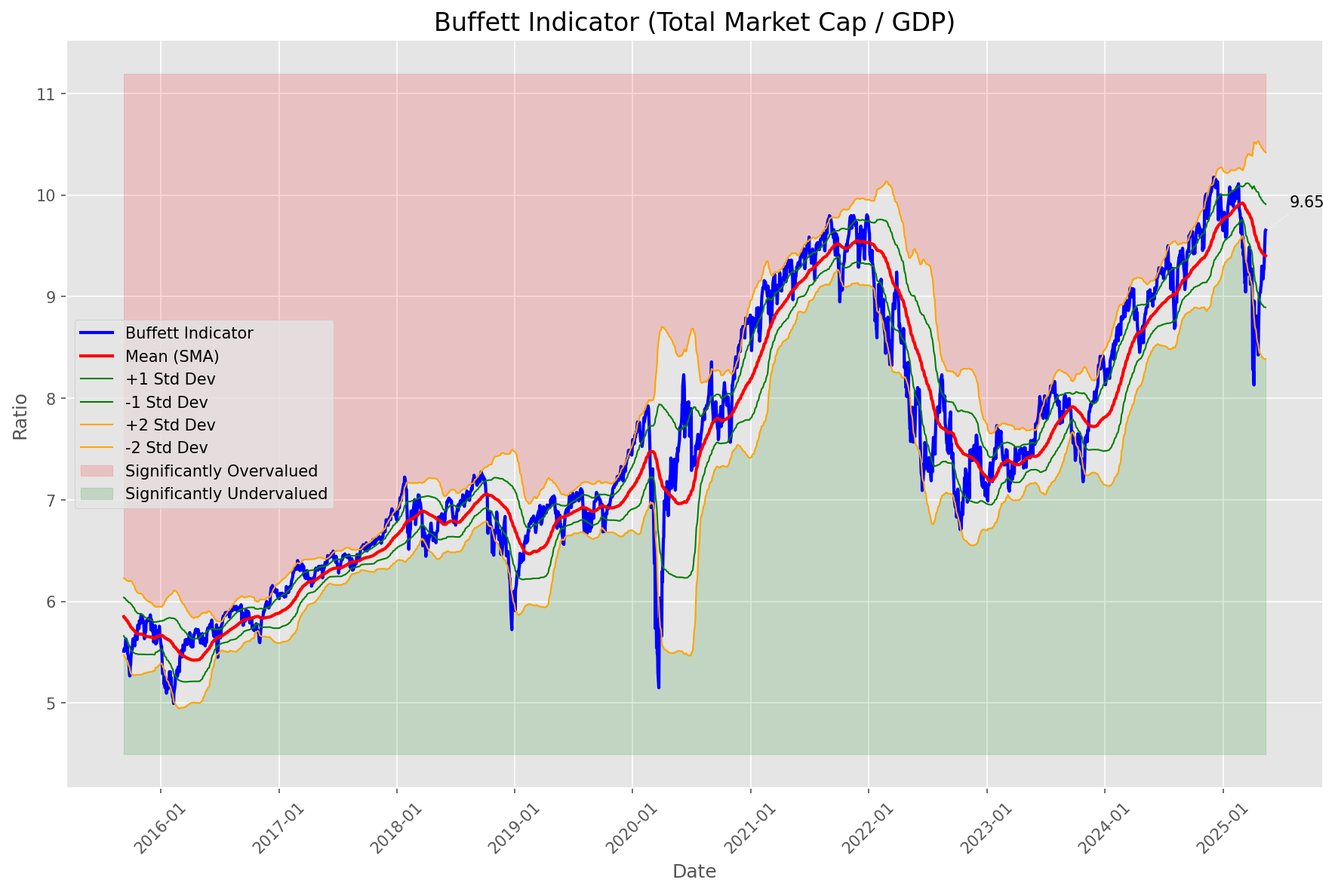
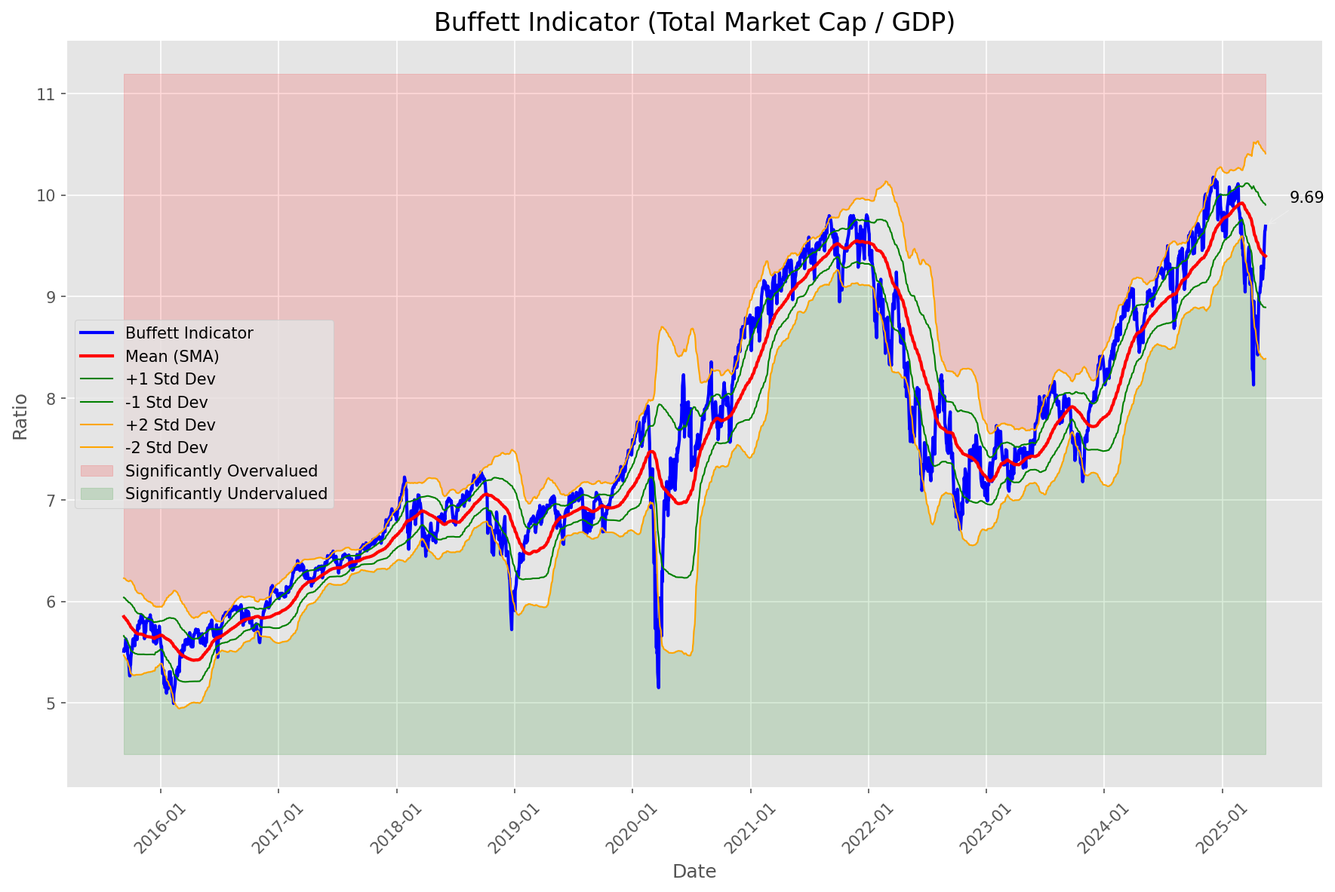
Add market report for 2025-05-16

diff --git a/oneil_relative_strength_report_2025-05-16.md b/oneil_relative_strength_report_2025-05-16.md
@@ -9,11 +9,11 @@
 | Metric | Value |
 |--------|-------|
 | **Market Valuation** | **Fair Valued** |
-| **Current Ratio** | 9.69 |
+| **Current Ratio** | 9.71 |
 | **Historical Mean** | 9.40 |
-| **Standard Deviation** | 0.51 |
-| **Z-Score (StdDev from Mean)** | 0.50 |
-| **Total Market Cap** | $290.59 trillion |
+| **Standard Deviation** | 0.50 |
+| **Z-Score (StdDev from Mean)** | 0.58 |
+| **Total Market Cap** | $291.10 trillion |
 | **GDP** | $29.98 trillion |
 
 ## **Market Insights**
@@ -49,41 +49,41 @@ Based on William O'Neil's Relative Strength Methodology
 
 | ETF | Strength | RS Rating | Performance | Above Key MAs | Trend | Sector |
 |-----|----------|-----------|-------------|--------------|-------|--------|
-| [XLI](https://www.tradingview.com/chart/?symbol=XLI) | 88.0 | 76.0 | 3.10% | 10d ✓, 50d ✓, 200d ✓ | ↗ | Industrial |
-| [XLU](https://www.tradingview.com/chart/?symbol=XLU) | 86.5 | 73.0 | 1.96% | 10d ✓, 50d ✓, 200d ✓ | ↗ | Utilities |
-| [GLD](https://www.tradingview.com/chart/?symbol=GLD) | 85.1 | 90.0 | 10.18% | 10d ✗, 50d ✓, 200d ✓ | ↗ | Gold |
-| [IYZ](https://www.tradingview.com/chart/?symbol=IYZ) | 84.5 | 69.0 | 0.64% | 10d ✓, 50d ✓, 200d ✓ | ↗ | Telecommunications |
+| [XLI](https://www.tradingview.com/chart/?symbol=XLI) | 88.5 | 77.0 | 3.48% | 10d ✓, 50d ✓, 200d ✓ | ↗ | Industrial |
+| [XLU](https://www.tradingview.com/chart/?symbol=XLU) | 87.0 | 74.0 | 2.49% | 10d ✓, 50d ✓, 200d ✓ | ↗ | Utilities |
+| [GLD](https://www.tradingview.com/chart/?symbol=GLD) | 85.1 | 90.0 | 10.22% | 10d ✗, 50d ✓, 200d ✓ | ↗ | Gold |
+| [XLP](https://www.tradingview.com/chart/?symbol=XLP) | 85.0 | 70.0 | 0.99% | 10d ✓, 50d ✓, 200d ✓ | ↗ | Consumer Staples |
+| [IYZ](https://www.tradingview.com/chart/?symbol=IYZ) | 84.0 | 68.0 | 0.64% | 10d ✓, 50d ✓, 200d ✓ | ↗ | Telecommunications |
 | [PAVE](https://www.tradingview.com/chart/?symbol=PAVE) | 83.5 | 67.0 | 0.24% | 10d ✓, 50d ✓, 200d ✓ | ↗ | Infrastructure |
-| [KWEB](https://www.tradingview.com/chart/?symbol=KWEB) | 82.0 | 64.0 | -0.15% | 10d ✓, 50d ✓, 200d ✓ | ↗ | Chinese Internet |
-| [XLP](https://www.tradingview.com/chart/?symbol=XLP) | 81.5 | 63.0 | -0.34% | 10d ✓, 50d ✓, 200d ✓ | ↗ | Consumer Staples |
-| [XLF](https://www.tradingview.com/chart/?symbol=XLF) | 80.5 | 61.0 | -0.81% | 10d ✓, 50d ✓, 200d ✓ | ↗ | Financial |
-| [CIBR](https://www.tradingview.com/chart/?symbol=CIBR) | 80.0 | 60.0 | -0.91% | 10d ✓, 50d ✓, 200d ✓ | ↗ | Cybersecurity |
+| [CIBR](https://www.tradingview.com/chart/?symbol=CIBR) | 81.0 | 62.0 | -0.43% | 10d ✓, 50d ✓, 200d ✓ | ↗ | Cybersecurity |
+| [XLF](https://www.tradingview.com/chart/?symbol=XLF) | 80.0 | 60.0 | -0.98% | 10d ✓, 50d ✓, 200d ✓ | ↗ | Financial |
 | [DBA](https://www.tradingview.com/chart/?symbol=DBA) | 78.0 | 56.0 | -2.04% | 10d ✓, 50d ✓, 200d ✓ | ↗ | Agriculture |
-| [ICLN](https://www.tradingview.com/chart/?symbol=ICLN) | 77.5 | 95.0 | 15.86% | 10d ✓, 50d ✓, 200d ✓ | ↘ | Clean Energy |
-| [ARKW](https://www.tradingview.com/chart/?symbol=ARKW) | 76.5 | 53.0 | -2.84% | 10d ✓, 50d ✓, 200d ✓ | ↗ | Next Generation Internet |
-| [BLOK](https://www.tradingview.com/chart/?symbol=BLOK) | 75.5 | 51.0 | -3.29% | 10d ✓, 50d ✓, 200d ✓ | ↗ | Blockchain & Cryptocurrency |
+| [ICLN](https://www.tradingview.com/chart/?symbol=ICLN) | 77.0 | 94.0 | 14.91% | 10d ✓, 50d ✓, 200d ✓ | ↘ | Clean Energy |
+| [ARKW](https://www.tradingview.com/chart/?symbol=ARKW) | 76.0 | 52.0 | -2.84% | 10d ✓, 50d ✓, 200d ✓ | ↗ | Next Generation Internet |
 | [AIQ](https://www.tradingview.com/chart/?symbol=AIQ) | 75.5 | 51.0 | -3.23% | 10d ✓, 50d ✓, 200d ✓ | ↗ | Artificial Intelligence & Technology |
-| [XLC](https://www.tradingview.com/chart/?symbol=XLC) | 75.0 | 50.0 | -3.42% | 10d ✓, 50d ✓, 200d ✓ | ↗ | Communications |
-| [SLV](https://www.tradingview.com/chart/?symbol=SLV) | 74.1 | 68.0 | 0.51% | 10d ✓, 50d ✗, 200d ✓ | ↗ | Silver |
-| [XLY](https://www.tradingview.com/chart/?symbol=XLY) | 71.5 | 43.0 | -5.05% | 10d ✓, 50d ✓, 200d ✓ | ↗ | Consumer Discretionary |
+| [KWEB](https://www.tradingview.com/chart/?symbol=KWEB) | 75.5 | 51.0 | -3.20% | 10d ✓, 50d ✓, 200d ✓ | ↗ | Chinese Internet |
+| [BLOK](https://www.tradingview.com/chart/?symbol=BLOK) | 75.0 | 50.0 | -3.29% | 10d ✓, 50d ✓, 200d ✓ | ↗ | Blockchain & Cryptocurrency |
+| [XLC](https://www.tradingview.com/chart/?symbol=XLC) | 74.5 | 49.0 | -3.64% | 10d ✓, 50d ✓, 200d ✓ | ↗ | Communications |
+| [XLY](https://www.tradingview.com/chart/?symbol=XLY) | 72.0 | 44.0 | -4.80% | 10d ✓, 50d ✓, 200d ✓ | ↗ | Consumer Discretionary |
+| [IYR](https://www.tradingview.com/chart/?symbol=IYR) | 68.8 | 58.0 | -1.54% | 10d ✓, 50d ✓, 200d ✗ | ↗ | Real Estate |
 | [ARKF](https://www.tradingview.com/chart/?symbol=ARKF) | 68.5 | 37.0 | -7.13% | 10d ✓, 50d ✓, 200d ✓ | ↗ | Fintech Innovation |
-| [IYR](https://www.tradingview.com/chart/?symbol=IYR) | 67.8 | 56.0 | -2.12% | 10d ✓, 50d ✓, 200d ✗ | ↗ | Real Estate |
-| [JETS](https://www.tradingview.com/chart/?symbol=JETS) | 62.5 | 25.0 | -11.66% | 10d ✓, 50d ✓, 200d ✓ | ↗ | Airlines |
-| [ARKK](https://www.tradingview.com/chart/?symbol=ARKK) | 61.5 | 23.0 | -12.43% | 10d ✓, 50d ✓, 200d ✓ | ↗ | Innovation |
-| [XLK](https://www.tradingview.com/chart/?symbol=XLK) | 58.0 | 56.0 | -1.97% | 10d ✓, 50d ✓, 200d ✓ | ↘ | Technology |
-| [URA](https://www.tradingview.com/chart/?symbol=URA) | 55.5 | 51.0 | -3.28% | 10d ✓, 50d ✓, 200d ✓ | ↘ | Uranium |
-| [SOXX](https://www.tradingview.com/chart/?symbol=SOXX) | 53.0 | 46.0 | -4.23% | 10d ✓, 50d ✓, 200d ✓ | ↘ | Semiconductors |
+| [URA](https://www.tradingview.com/chart/?symbol=URA) | 63.5 | 67.0 | 0.29% | 10d ✓, 50d ✓, 200d ✓ | ↘ | Uranium |
+| [BIL](https://www.tradingview.com/chart/?symbol=BIL) | 63.0 | 66.0 | 0.02% | 10d ✓, 50d ✓, 200d ✓ | ↘ | Short-term Treasuries |
+| [SLV](https://www.tradingview.com/chart/?symbol=SLV) | 62.7 | 65.0 | -0.03% | 10d ✗, 50d ✗, 200d ✓ | ↗ | Silver |
+| [JETS](https://www.tradingview.com/chart/?symbol=JETS) | 61.0 | 22.0 | -12.48% | 10d ✓, 50d ✓, 200d ✓ | ↗ | Airlines |
+| [ARKK](https://www.tradingview.com/chart/?symbol=ARKK) | 60.0 | 20.0 | -13.91% | 10d ✓, 50d ✓, 200d ✓ | ↗ | Innovation |
+| [XLK](https://www.tradingview.com/chart/?symbol=XLK) | 57.5 | 55.0 | -2.37% | 10d ✓, 50d ✓, 200d ✓ | ↘ | Technology |
 | [IYT](https://www.tradingview.com/chart/?symbol=IYT) | 49.5 | 39.0 | -6.30% | 10d ✓, 50d ✓, 200d ✓ | ↘ | Transportation |
-| [BIL](https://www.tradingview.com/chart/?symbol=BIL) | 42.4 | 65.0 | 0.01% | 10d ✓, 50d ✗, 200d ✗ | ↘ | Short-term Treasuries |
-| [XLE](https://www.tradingview.com/chart/?symbol=XLE) | 42.3 | 45.0 | -4.57% | 10d ✓, 50d ✓, 200d ✗ | ↘ | Energy |
-| [XLB](https://www.tradingview.com/chart/?symbol=XLB) | 42.3 | 45.0 | -4.43% | 10d ✓, 50d ✓, 200d ✗ | ↘ | Materials |
-| [ITB](https://www.tradingview.com/chart/?symbol=ITB) | 36.3 | 33.0 | -8.63% | 10d ✓, 50d ✓, 200d ✗ | ↘ | Home Construction |
-| [UUP](https://www.tradingview.com/chart/?symbol=UUP) | 31.9 | 44.0 | -4.79% | 10d ✓, 50d ✗, 200d ✗ | ↘ | U.S. Dollar |
+| [XLB](https://www.tradingview.com/chart/?symbol=XLB) | 42.8 | 46.0 | -4.21% | 10d ✓, 50d ✓, 200d ✗ | ↘ | Materials |
+| [SOXX](https://www.tradingview.com/chart/?symbol=SOXX) | 42.3 | 45.0 | -4.72% | 10d ✓, 50d ✓, 200d ✗ | ↘ | Semiconductors |
+| [ITB](https://www.tradingview.com/chart/?symbol=ITB) | 35.8 | 32.0 | -8.76% | 10d ✓, 50d ✓, 200d ✗ | ↘ | Home Construction |
+| [UUP](https://www.tradingview.com/chart/?symbol=UUP) | 32.4 | 45.0 | -4.46% | 10d ✓, 50d ✗, 200d ✗ | ↘ | U.S. Dollar |
 | [DBC](https://www.tradingview.com/chart/?symbol=DBC) | 31.4 | 43.0 | -5.17% | 10d ✓, 50d ✗, 200d ✗ | ↘ | Commodities |
-| [TLT](https://www.tradingview.com/chart/?symbol=TLT) | 26.0 | 52.0 | -2.94% | 10d ✗, 50d ✗, 200d ✗ | ↘ | Long-term Treasuries |
-| [XLV](https://www.tradingview.com/chart/?symbol=XLV) | 13.5 | 27.0 | -10.88% | 10d ✗, 50d ✗, 200d ✗ | ↘ | Healthcare |
-| [IBB](https://www.tradingview.com/chart/?symbol=IBB) | 10.5 | 21.0 | -12.99% | 10d ✗, 50d ✗, 200d ✗ | ↘ | Biotechnology |
-| [ARKG](https://www.tradingview.com/chart/?symbol=ARKG) | 4.5 | 9.0 | -23.32% | 10d ✗, 50d ✗, 200d ✗ | ↘ | Genomics |
+| [XLE](https://www.tradingview.com/chart/?symbol=XLE) | 30.4 | 41.0 | -5.72% | 10d ✓, 50d ✗, 200d ✗ | ↘ | Energy |
+| [TLT](https://www.tradingview.com/chart/?symbol=TLT) | 26.5 | 53.0 | -2.78% | 10d ✗, 50d ✗, 200d ✗ | ↘ | Long-term Treasuries |
+| [XLV](https://www.tradingview.com/chart/?symbol=XLV) | 15.5 | 31.0 | -9.33% | 10d ✗, 50d ✗, 200d ✗ | ↘ | Healthcare |
+| [ARKG](https://www.tradingview.com/chart/?symbol=ARKG) | 12.9 | 6.0 | -27.36% | 10d ✓, 50d ✗, 200d ✗ | ↘ | Genomics |
+| [IBB](https://www.tradingview.com/chart/?symbol=IBB) | 11.5 | 23.0 | -12.34% | 10d ✗, 50d ✗, 200d ✗ | ↘ | Biotechnology |
 
 ### **Sector ETF Performance Interpretation**
 
@@ -100,7 +100,7 @@ This table shows the relative strength metrics for different market sectors base
 
 The current market leadership is coming from the following sectors: **Industrial, Utilities, Gold**.
 
-The **Industrial** sector (represented by **XLI**) is showing particularly strong relative strength with an RS rating of 76.0 and performance of 3.10% vs. the S&P 500. This sector is trading above its 10-day, 50-day, 200-day moving average(s). Investors should consider focusing on high RS stocks within these leading sectors for potential outperformance.
+The **Industrial** sector (represented by **XLI**) is showing particularly strong relative strength with an RS rating of 77.0 and performance of 3.48% vs. the S&P 500. This sector is trading above its 10-day, 50-day, 200-day moving average(s). Investors should consider focusing on high RS stocks within these leading sectors for potential outperformance.
 
 ---
 
@@ -110,152 +110,166 @@ The following 73 stocks show exceptional relative strength:
 
 | RS Rating | Buy Score | Current Price | Chart | Name | Ticker |
 |-----------|-----------|---------------|-------|------|--------|
-| 100 | 100 | $46.26 | [Chart](https://www.tradingview.com/chart/?symbol=EXEL) | Exelixis Inc | EXEL |
-| 100 | 100 | $90.10 | [Chart](https://www.tradingview.com/chart/?symbol=SEZL) | Sezzle Inc. Common Stock | SEZL |
+| 100 | 100 | $93.51 | [Chart](https://www.tradingview.com/chart/?symbol=SEZL) | Sezzle Inc. Common Stock | SEZL |
 | 100 | 100 | $19.58 | [Chart](https://www.tradingview.com/chart/?symbol=SPNT) | SiriusPoint Ltd. | SPNT |
-| 100 | 100 | $183.85 | [Chart](https://www.tradingview.com/chart/?symbol=DAVE) | Dave Inc. Class A Common Stock | DAVE |
 | 100 | 100 | $131.21 | [Chart](https://www.tradingview.com/chart/?symbol=VSEC) | VSE Corp | VSEC |
-| 100 | 100 | $28.23 | [Chart](https://www.tradingview.com/chart/?symbol=DB) | Deutsche Bank Aktiengesellschaft | DB |
-| 100 | 100 | $24.40 | [Chart](https://www.tradingview.com/chart/?symbol=CRK) | Comstock Resources, Inc. | CRK |
+| 100 | 100 | $27.90 | [Chart](https://www.tradingview.com/chart/?symbol=DB) | Deutsche Bank Aktiengesellschaft | DB |
+| 100 | 100 | $42.31 | [Chart](https://www.tradingview.com/chart/?symbol=FARO) | Faro Technologies Inc | FARO |
+| 100 | 100 | $183.85 | [Chart](https://www.tradingview.com/chart/?symbol=DAVE) | Dave Inc. Class A Common Stock | DAVE |
+| 100 | 100 | $46.34 | [Chart](https://www.tradingview.com/chart/?symbol=EXEL) | Exelixis Inc | EXEL |
+| 100 | 100 | $154.73 | [Chart](https://www.tradingview.com/chart/?symbol=NRG) | NRG Energy, Inc. | NRG |
 | 100 | 100 | $23.14 | [Chart](https://www.tradingview.com/chart/?symbol=PRA) | ProAssurance Corporation | PRA |
-| 100 | 100 | $155.02 | [Chart](https://www.tradingview.com/chart/?symbol=NRG) | NRG Energy, Inc. | NRG |
-| 100 | 100 | $42.24 | [Chart](https://www.tradingview.com/chart/?symbol=FARO) | Faro Technologies Inc | FARO |
-| 99 | 100 | $230.44 | [Chart](https://www.tradingview.com/chart/?symbol=CRS) | Carpenter Technology Corp | CRS |
-| 99 | 100 | $161.29 | [Chart](https://www.tradingview.com/chart/?symbol=HWM) | Howmet Aerospace Inc. | HWM |
-| 99 | 100 | $130.40 | [Chart](https://www.tradingview.com/chart/?symbol=ATGE) | Adtalem Global Education Inc. Common Shares | ATGE |
-| 98 | 100 | $33.73 | [Chart](https://www.tradingview.com/chart/?symbol=UTI) | Universal Technical Institute, Inc. | UTI |
-| 98 | 100 | $530.52 | [Chart](https://www.tradingview.com/chart/?symbol=DUOL) | Duolingo, Inc. Class A Common Stock | DUOL |
+| 99 | 100 | $136.58 | [Chart](https://www.tradingview.com/chart/?symbol=COOP) | Mr. Cooper Group Inc. Common Stock | COOP |
+| 99 | 100 | $24.20 | [Chart](https://www.tradingview.com/chart/?symbol=CRK) | Comstock Resources, Inc. | CRK |
+| 99 | 100 | $39.89 | [Chart](https://www.tradingview.com/chart/?symbol=PAY) | Paymentus Holdings, Inc. | PAY |
 | 98 | 100 | $156.89 | [Chart](https://www.tradingview.com/chart/?symbol=PLMR) | Palomar Holdings, Inc. Common stock | PLMR |
-| 98 | 100 | $80.77 | [Chart](https://www.tradingview.com/chart/?symbol=RBLX) | Roblox Corporation | RBLX |
-| 98 | 100 | $38.63 | [Chart](https://www.tradingview.com/chart/?symbol=PAY) | Paymentus Holdings, Inc. | PAY |
-| 98 | 100 | $34.98 | [Chart](https://www.tradingview.com/chart/?symbol=AHR) | American Healthcare REIT, Inc. | AHR |
+| 98 | 100 | $130.40 | [Chart](https://www.tradingview.com/chart/?symbol=ATGE) | Adtalem Global Education Inc. Common Shares | ATGE |
+| 98 | 100 | $81.84 | [Chart](https://www.tradingview.com/chart/?symbol=RBLX) | Roblox Corporation | RBLX |
+| 98 | 100 | $281.88 | [Chart](https://www.tradingview.com/chart/?symbol=VRSN) | VeriSign Inc | VRSN |
+| 98 | 100 | $530.42 | [Chart](https://www.tradingview.com/chart/?symbol=DUOL) | Duolingo, Inc. Class A Common Stock | DUOL |
+| 98 | 100 | $33.73 | [Chart](https://www.tradingview.com/chart/?symbol=UTI) | Universal Technical Institute, Inc. | UTI |
+| 98 | 100 | $34.85 | [Chart](https://www.tradingview.com/chart/?symbol=AHR) | American Healthcare REIT, Inc. | AHR |
 | 98 | 100 | $71.05 | [Chart](https://www.tradingview.com/chart/?symbol=ULS) | UL Solutions Inc. | ULS |
-| 98 | 100 | $164.63 | [Chart](https://www.tradingview.com/chart/?symbol=SE) | Sea Limited American Depositary Shares, each representing one Class A Ordinary Share | SE |
 | 97 | 100 | $41.76 | [Chart](https://www.tradingview.com/chart/?symbol=EWP) | iShares MSCI Spain ETF | EWP |
+| 97 | 100 | $228.44 | [Chart](https://www.tradingview.com/chart/?symbol=CRS) | Carpenter Technology Corp | CRS |
 | 97 | 100 | $119.77 | [Chart](https://www.tradingview.com/chart/?symbol=EHC) | Encompass Health Corporation Common Stock | EHC |
-| 97 | 100 | $151.95 | [Chart](https://www.tradingview.com/chart/?symbol=CAH) | Cardinal Health, Inc. | CAH |
+| 97 | 100 | $152.14 | [Chart](https://www.tradingview.com/chart/?symbol=CAH) | Cardinal Health, Inc. | CAH |
+| 97 | 100 | $163.31 | [Chart](https://www.tradingview.com/chart/?symbol=SE) | Sea Limited American Depositary Shares, each representing one Class A Ordinary Share | SE |
+| 97 | 100 | $161.09 | [Chart](https://www.tradingview.com/chart/?symbol=HWM) | Howmet Aerospace Inc. | HWM |
 | 96 | 100 | $28.40 | [Chart](https://www.tradingview.com/chart/?symbol=FMS) | Fresenius Medical Care AG | FMS |
-| 96 | 100 | $31.21 | [Chart](https://www.tradingview.com/chart/?symbol=EUFN) | iShares MSCI Europe Financials ETF | EUFN |
-| 96 | 100 | $17.34 | [Chart](https://www.tradingview.com/chart/?symbol=BCS) | Barclays PLC | BCS |
-| 96 | 100 | $129.71 | [Chart](https://www.tradingview.com/chart/?symbol=COOP) | Mr. Cooper Group Inc. Common Stock | COOP |
+| 96 | 100 | $17.48 | [Chart](https://www.tradingview.com/chart/?symbol=BCS) | Barclays PLC | BCS |
+| 96 | 100 | $31.18 | [Chart](https://www.tradingview.com/chart/?symbol=EUFN) | iShares MSCI Europe Financials ETF | EUFN |
 | 96 | 100 | $31.34 | [Chart](https://www.tradingview.com/chart/?symbol=TGS) | Transportadora de Gas del Sur S.A. ADS | TGS |
-| 95 | 100 | $129.25 | [Chart](https://www.tradingview.com/chart/?symbol=HIG) | The Hartford Insurance Group, Inc. | HIG |
-| 94 | 100 | $84.40 | [Chart](https://www.tradingview.com/chart/?symbol=TGLS) | Tecnoglass Inc. | TGLS |
-| 94 | 100 | $322.02 | [Chart](https://www.tradingview.com/chart/?symbol=PODD) | Insulet Corporation | PODD |
-| 93 | 100 | $1177.98 | [Chart](https://www.tradingview.com/chart/?symbol=NFLX) | NetFlix Inc | NFLX |
-| 93 | 100 | $69.53 | [Chart](https://www.tradingview.com/chart/?symbol=VRNA) | Verona Pharma plc | VRNA |
+| 95 | 100 | $129.47 | [Chart](https://www.tradingview.com/chart/?symbol=HIG) | The Hartford Insurance Group, Inc. | HIG |
+| 94 | 100 | $319.85 | [Chart](https://www.tradingview.com/chart/?symbol=PODD) | Insulet Corporation | PODD |
+| 94 | 100 | $144.94 | [Chart](https://www.tradingview.com/chart/?symbol=TW) | Tradeweb Markets Inc. Class A Common Stock | TW |
+| 93 | 100 | $85.47 | [Chart](https://www.tradingview.com/chart/?symbol=TGLS) | Tecnoglass Inc. | TGLS |
 | 93 | 100 | $208.52 | [Chart](https://www.tradingview.com/chart/?symbol=BAP) | Credicorp LTD | BAP |
-| 93 | 100 | $45.23 | [Chart](https://www.tradingview.com/chart/?symbol=TOST) | Toast, Inc. | TOST |
-| 92 | 100 | $40.86 | [Chart](https://www.tradingview.com/chart/?symbol=EWG) | iShares MSCI Germany ETF | EWG |
-| 92 | 100 | $143.50 | [Chart](https://www.tradingview.com/chart/?symbol=TW) | Tradeweb Markets Inc. Class A Common Stock | TW |
+| 93 | 100 | $1193.54 | [Chart](https://www.tradingview.com/chart/?symbol=NFLX) | NetFlix Inc | NFLX |
+| 92 | 100 | $40.85 | [Chart](https://www.tradingview.com/chart/?symbol=EWG) | iShares MSCI Germany ETF | EWG |
+| 92 | 100 | $45.20 | [Chart](https://www.tradingview.com/chart/?symbol=TOST) | Toast, Inc. | TOST |
 | 92 | 100 | $42.96 | [Chart](https://www.tradingview.com/chart/?symbol=FHI) | Federated Hermes, Inc. | FHI |
 | 92 | 100 | $25.19 | [Chart](https://www.tradingview.com/chart/?symbol=BSAC) | Banco Santander-Chile | BSAC |
-| 92 | 100 | $106.89 | [Chart](https://www.tradingview.com/chart/?symbol=RBA) | RB Global, Inc. | RBA |
-| 91 | 100 | $516.32 | [Chart](https://www.tradingview.com/chart/?symbol=DE) | Deere & Company | DE |
+| 92 | 100 | $86.36 | [Chart](https://www.tradingview.com/chart/?symbol=RBRK) | Rubrik, Inc. | RBRK |
 | 91 | 100 | $33.40 | [Chart](https://www.tradingview.com/chart/?symbol=SLM) | SLM Corporation | SLM |
-| 91 | 100 | $232.34 | [Chart](https://www.tradingview.com/chart/?symbol=TTWO) | Take-Two Interactive Software Inc | TTWO |
-| 90 | 100 | $53.70 | [Chart](https://www.tradingview.com/chart/?symbol=EPR) | EPR Properties | EPR |
-| 90 | 100 | $170.67 | [Chart](https://www.tradingview.com/chart/?symbol=ITA) | iShares U.S. Aerospace & Defense ETF | ITA |
+| 91 | 100 | $231.25 | [Chart](https://www.tradingview.com/chart/?symbol=TTWO) | Take-Two Interactive Software Inc | TTWO |
+| 91 | 100 | $106.96 | [Chart](https://www.tradingview.com/chart/?symbol=RBA) | RB Global, Inc. | RBA |
+| 90 | 100 | $24.29 | [Chart](https://www.tradingview.com/chart/?symbol=BTSG) | BrightSpring Health Services, Inc. Common Stock | BTSG |
 | 90 | 100 | $31.22 | [Chart](https://www.tradingview.com/chart/?symbol=PRDO) | Perdoceo Education Corporation | PRDO |
-| 90 | 100 | $229.38 | [Chart](https://www.tradingview.com/chart/?symbol=GE) | GE Aerospace | GE |
-| 89 | 100 | $728.39 | [Chart](https://www.tradingview.com/chart/?symbol=AXON) | Axon Enterprise, Inc. Common Stock | AXON |
+| 90 | 100 | $53.70 | [Chart](https://www.tradingview.com/chart/?symbol=EPR) | EPR Properties | EPR |
+| 90 | 100 | $229.27 | [Chart](https://www.tradingview.com/chart/?symbol=GE) | GE Aerospace | GE |
+| 89 | 100 | $209.95 | [Chart](https://www.tradingview.com/chart/?symbol=DRI) | Darden Restaurants, Inc. | DRI |
 | 89 | 100 | $95.98 | [Chart](https://www.tradingview.com/chart/?symbol=HEES) | H&E Equipment Services, Inc. | HEES |
-| 88 | 100 | $25.59 | [Chart](https://www.tradingview.com/chart/?symbol=EWS) | iShares MSCI Singapore ETF | EWS |
-| 88 | 100 | $128.12 | [Chart](https://www.tradingview.com/chart/?symbol=PLTR) | Palantir Technologies Inc. Class A Common Stock | PLTR |
-| 88 | 100 | $85.52 | [Chart](https://www.tradingview.com/chart/?symbol=RBRK) | Rubrik, Inc. | RBRK |
-| 88 | 99 | $24.02 | [Chart](https://www.tradingview.com/chart/?symbol=BTSG) | BrightSpring Health Services, Inc. Common Stock | BTSG |
-| 88 | 99 | $297.40 | [Chart](https://www.tradingview.com/chart/?symbol=CVNA) | Carvana Co. | CVNA |
-| 88 | 99 | $68.29 | [Chart](https://www.tradingview.com/chart/?symbol=CTVA) | Corteva, Inc. Common Stock | CTVA |
-| 87 | 99 | $209.00 | [Chart](https://www.tradingview.com/chart/?symbol=DRI) | Darden Restaurants, Inc. | DRI |
-| 86 | 98 | $195.74 | [Chart](https://www.tradingview.com/chart/?symbol=LOPE) | Grand Canyon Education, Inc | LOPE |
+| 89 | 100 | $526.96 | [Chart](https://www.tradingview.com/chart/?symbol=DE) | Deere & Company | DE |
+| 89 | 100 | $728.39 | [Chart](https://www.tradingview.com/chart/?symbol=AXON) | Axon Enterprise, Inc. Common Stock | AXON |
+| 88 | 100 | $42.44 | [Chart](https://www.tradingview.com/chart/?symbol=BTI) | British American Tobacco p.l.c. American Depositary Shares, American Depositary Shares, each representing one Ordinary Share | BTI |
+| 88 | 100 | $24.21 | [Chart](https://www.tradingview.com/chart/?symbol=SRAD) | Sportradar Group AG Class A Ordinary Shares | SRAD |
+| 87 | 100 | $25.59 | [Chart](https://www.tradingview.com/chart/?symbol=EWS) | iShares MSCI Singapore ETF | EWS |
+| 89 | 99 | $170.67 | [Chart](https://www.tradingview.com/chart/?symbol=ITA) | iShares U.S. Aerospace & Defense ETF | ITA |
+| 85 | 98 | $128.14 | [Chart](https://www.tradingview.com/chart/?symbol=PLTR) | Palantir Technologies Inc. Class A Common Stock | PLTR |
 | 88 | 97 | $196.83 | [Chart](https://www.tradingview.com/chart/?symbol=GPOR) | Gulfport Energy Corporation | GPOR |
-| 83 | 97 | $23.58 | [Chart](https://www.tradingview.com/chart/?symbol=SRAD) | Sportradar Group AG Class A Ordinary Shares | SRAD |
+| 85 | 97 | $195.74 | [Chart](https://www.tradingview.com/chart/?symbol=LOPE) | Grand Canyon Education, Inc | LOPE |
+| 82 | 97 | $27.41 | [Chart](https://www.tradingview.com/chart/?symbol=T) | AT&T Inc. | T |
 | 87 | 96 | $22.29 | [Chart](https://www.tradingview.com/chart/?symbol=KAR) | OPENLANE, Inc | KAR |
-| 86 | 96 | $13.40 | [Chart](https://www.tradingview.com/chart/?symbol=CNH) | CNH INDUSTRIAL N.V. | CNH |
-| 84 | 96 | $58.81 | [Chart](https://www.tradingview.com/chart/?symbol=HSBC) | HSBC Holdings PLC | HSBC |
-| 84 | 95 | $136.30 | [Chart](https://www.tradingview.com/chart/?symbol=DTE) | DTE Energy Company | DTE |
-| 82 | 95 | $88.81 | [Chart](https://www.tradingview.com/chart/?symbol=L) | Loews Corporation | L |
-| 85 | 94 | $58.67 | [Chart](https://www.tradingview.com/chart/?symbol=IBIT) | iShares Bitcoin Trust ETF | IBIT |
+| 84 | 96 | $58.72 | [Chart](https://www.tradingview.com/chart/?symbol=HSBC) | HSBC Holdings PLC | HSBC |
+| 84 | 95 | $68.16 | [Chart](https://www.tradingview.com/chart/?symbol=CTVA) | Corteva, Inc. Common Stock | CTVA |
 | 84 | 94 | $58.11 | [Chart](https://www.tradingview.com/chart/?symbol=IGF) | iShares Global Infrastructure ETF | IGF |
-| 84 | 94 | $13.46 | [Chart](https://www.tradingview.com/chart/?symbol=MUFG) | Mitsubishi UFJ Financial Group, Inc. | MUFG |
-| 82 | 94 | $56.00 | [Chart](https://www.tradingview.com/chart/?symbol=EQT) | EQT CORP | EQT |
-| 81 | 92 | $49.89 | [Chart](https://www.tradingview.com/chart/?symbol=TRP) | TC Energy Corporation | TRP |
-| 81 | 92 | $200.48 | [Chart](https://www.tradingview.com/chart/?symbol=DFS) | Discover Financial Services | DFS |
-| 80 | 92 | $55.03 | [Chart](https://www.tradingview.com/chart/?symbol=CAKE) | Cheesecake Factory (The) | CAKE |
-| 81 | 91 | $17.11 | [Chart](https://www.tradingview.com/chart/?symbol=MIR) | Mirion Technologies, Inc. | MIR |
+| 81 | 94 | $88.81 | [Chart](https://www.tradingview.com/chart/?symbol=L) | Loews Corporation | L |
+| 84 | 93 | $59.01 | [Chart](https://www.tradingview.com/chart/?symbol=IBIT) | iShares Bitcoin Trust ETF | IBIT |
+| 81 | 93 | $30.05 | [Chart](https://www.tradingview.com/chart/?symbol=NTGR) | NETGEAR, Inc. | NTGR |
+| 82 | 92 | $13.58 | [Chart](https://www.tradingview.com/chart/?symbol=CNH) | CNH INDUSTRIAL N.V. | CNH |
+| 81 | 92 | $136.10 | [Chart](https://www.tradingview.com/chart/?symbol=DTE) | DTE Energy Company | DTE |
+| 81 | 91 | $13.50 | [Chart](https://www.tradingview.com/chart/?symbol=MUFG) | Mitsubishi UFJ Financial Group, Inc. | MUFG |
+| 80 | 91 | $49.89 | [Chart](https://www.tradingview.com/chart/?symbol=TRP) | TC Energy Corporation | TRP |
+| 80 | 90 | $33.92 | [Chart](https://www.tradingview.com/chart/?symbol=RPRX) | Royalty Pharma plc Class A Ordinary Shares | RPRX |
+| 80 | 90 | $175.22 | [Chart](https://www.tradingview.com/chart/?symbol=ICE) | Intercontinental Exchange  Inc. | ICE |
 
 ---
 
 
 ## **Sell Recommendations**
 
-The following 64 stocks show deteriorating relative strength:
+The following 78 stocks show deteriorating relative strength:
 
 | RS Rating | Sell Score | Current Price | Chart | Name | Ticker |
 |-----------|------------|---------------|-------|------|--------|
 | 1 | 100 | $10.18 | [Chart](https://www.tradingview.com/chart/?symbol=NRIX) | Nurix Therapeutics, Inc. Common stock | NRIX |
-| 1 | 100 | $10.05 | [Chart](https://www.tradingview.com/chart/?symbol=WNC) | Wabash National Corp. | WNC |
-| 2 | 100 | $21.33 | [Chart](https://www.tradingview.com/chart/?symbol=VERA) | Vera Therapeutics, Inc. Class A Common Stock | VERA |
+| 2 | 100 | $10.05 | [Chart](https://www.tradingview.com/chart/?symbol=WNC) | Wabash National Corp. | WNC |
 | 2 | 100 | $23.27 | [Chart](https://www.tradingview.com/chart/?symbol=JANX) | Janux Therapeutics, Inc. Common Stock | JANX |
-| 3 | 100 | $30.10 | [Chart](https://www.tradingview.com/chart/?symbol=TWST) | Twist Bioscience Corporation Common Stock | TWST |
+| 3 | 100 | $12.02 | [Chart](https://www.tradingview.com/chart/?symbol=LBRT) | Liberty Energy Inc. | LBRT |
 | 3 | 100 | $14.16 | [Chart](https://www.tradingview.com/chart/?symbol=DNLI) | Denali Therapeutics Inc. Common Stock | DNLI |
+| 3 | 100 | $30.10 | [Chart](https://www.tradingview.com/chart/?symbol=TWST) | Twist Bioscience Corporation Common Stock | TWST |
+| 3 | 100 | $30.34 | [Chart](https://www.tradingview.com/chart/?symbol=CYTK) | Cytokinetics Inc. | CYTK |
 | 3 | 100 | $10.22 | [Chart](https://www.tradingview.com/chart/?symbol=HPK) | HighPeak Energy, Inc. Common Stock | HPK |
 | 4 | 100 | $18.09 | [Chart](https://www.tradingview.com/chart/?symbol=VRNT) | Verint Systems Inc | VRNT |
-| 5 | 100 | $15.81 | [Chart](https://www.tradingview.com/chart/?symbol=PENN) | PENN Entertainment, Inc. Common Stock | PENN |
 | 5 | 100 | $27.82 | [Chart](https://www.tradingview.com/chart/?symbol=SRDX) | Surmodics, Inc. Common Stock | SRDX |
 | 5 | 100 | $13.92 | [Chart](https://www.tradingview.com/chart/?symbol=IMVT) | Immunovant, Inc. Common Stock | IMVT |
-| 6 | 100 | $29.84 | [Chart](https://www.tradingview.com/chart/?symbol=CYTK) | Cytokinetics Inc. | CYTK |
 | 8 | 100 | $126.49 | [Chart](https://www.tradingview.com/chart/?symbol=TFX) | Teleflex Incorporated | TFX |
-| 13 | 100 | $18.44 | [Chart](https://www.tradingview.com/chart/?symbol=NVDS) | Investment Managers Series Trust II Tradr 1.5X Short NVDA Daily ETF | NVDS |
+| 9 | 100 | $21.11 | [Chart](https://www.tradingview.com/chart/?symbol=UCO) | ProShares Ultra Bloomberg Crude Oil | UCO |
+| 10 | 100 | $21.52 | [Chart](https://www.tradingview.com/chart/?symbol=VERA) | Vera Therapeutics, Inc. Class A Common Stock | VERA |
 | 13 | 100 | $47.19 | [Chart](https://www.tradingview.com/chart/?symbol=RHI) | Robert Half Inc. | RHI |
 | 16 | 100 | $10.34 | [Chart](https://www.tradingview.com/chart/?symbol=CMRE) | Costamare Inc. | CMRE |
 | 17 | 100 | $47.30 | [Chart](https://www.tradingview.com/chart/?symbol=LINE) | Lineage, Inc. Common Stock | LINE |
-| 22 | 100 | $95.88 | [Chart](https://www.tradingview.com/chart/?symbol=CHRD) | Chord Energy Corporation Common Stock | CHRD |
+| 18 | 100 | $18.35 | [Chart](https://www.tradingview.com/chart/?symbol=NVDS) | Investment Managers Series Trust II Tradr 1.5X Short NVDA Daily ETF | NVDS |
+| 21 | 100 | $95.88 | [Chart](https://www.tradingview.com/chart/?symbol=CHRD) | Chord Energy Corporation Common Stock | CHRD |
 | 6 | 99 | $10.31 | [Chart](https://www.tradingview.com/chart/?symbol=VREX) | Varex Imaging Corporation Common Stock | VREX |
-| 8 | 99 | $21.19 | [Chart](https://www.tradingview.com/chart/?symbol=UCO) | ProShares Ultra Bloomberg Crude Oil | UCO |
-| 18 | 99 | $28.26 | [Chart](https://www.tradingview.com/chart/?symbol=AGIO) | Agios Pharmaceuticals, Inc. | AGIO |
+| 6 | 99 | $21.37 | [Chart](https://www.tradingview.com/chart/?symbol=ARKG) | ARK Genomic Revolution ETF | ARKG |
+| 8 | 99 | $27.71 | [Chart](https://www.tradingview.com/chart/?symbol=LEGN) | Legend Biotech Corporation American Depositary Shares | LEGN |
 | 7 | 98 | $12.62 | [Chart](https://www.tradingview.com/chart/?symbol=VRDN) | Viridian Therapeutics, Inc. Common Stock | VRDN |
 | 7 | 98 | $21.18 | [Chart](https://www.tradingview.com/chart/?symbol=AMRK) | A-Mark Precious Metals, Inc. | AMRK |
+| 18 | 98 | $35.30 | [Chart](https://www.tradingview.com/chart/?symbol=SLB) | Schlumberger Limited | SLB |
+| 19 | 98 | $28.41 | [Chart](https://www.tradingview.com/chart/?symbol=AGIO) | Agios Pharmaceuticals, Inc. | AGIO |
 | 5 | 97 | $10.67 | [Chart](https://www.tradingview.com/chart/?symbol=LSPD) | Lightspeed Commerce Inc. | LSPD |
-| 8 | 97 | $27.69 | [Chart](https://www.tradingview.com/chart/?symbol=LEGN) | Legend Biotech Corporation American Depositary Shares | LEGN |
+| 8 | 97 | $15.43 | [Chart](https://www.tradingview.com/chart/?symbol=DXC) | DXC Technology Company | DXC |
 | 16 | 97 | $13.27 | [Chart](https://www.tradingview.com/chart/?symbol=ZUMZ) | Zumiez Inc. | ZUMZ |
-| 18 | 97 | $35.72 | [Chart](https://www.tradingview.com/chart/?symbol=SLB) | Schlumberger Limited | SLB |
 | 13 | 95 | $229.05 | [Chart](https://www.tradingview.com/chart/?symbol=OIH) | VanEck Oil Services ETF | OIH |
-| 9 | 94 | $16.02 | [Chart](https://www.tradingview.com/chart/?symbol=DXC) | DXC Technology Company | DXC |
+| 9 | 94 | $119.12 | [Chart](https://www.tradingview.com/chart/?symbol=BLDR) | Builders FirstSource, Inc. | BLDR |
+| 10 | 94 | $58.18 | [Chart](https://www.tradingview.com/chart/?symbol=BOIL) | ProShares Ultra Bloomberg Natural Gas | BOIL |
+| 10 | 94 | $14.68 | [Chart](https://www.tradingview.com/chart/?symbol=INMD) | InMode Ltd. Ordinary Shares | INMD |
+| 14 | 94 | $15.85 | [Chart](https://www.tradingview.com/chart/?symbol=AMZY) | YieldMax AMZN Option Income Strategy ETF | AMZY |
 | 27 | 94 | $10.26 | [Chart](https://www.tradingview.com/chart/?symbol=LBTYK) | Liberty Global Ltd. Class C Common Shares | LBTYK |
 | 8 | 93 | $10.15 | [Chart](https://www.tradingview.com/chart/?symbol=HLIT) | Harmonic Inc | HLIT |
-| 9 | 93 | $21.21 | [Chart](https://www.tradingview.com/chart/?symbol=ARKG) | ARK Genomic Revolution ETF | ARKG |
-| 15 | 93 | $15.85 | [Chart](https://www.tradingview.com/chart/?symbol=AMZY) | YieldMax AMZN Option Income Strategy ETF | AMZY |
+| 10 | 91 | $12.02 | [Chart](https://www.tradingview.com/chart/?symbol=APLE) | Apple Hospitality REIT, Inc. | APLE |
 | 12 | 91 | $34.84 | [Chart](https://www.tradingview.com/chart/?symbol=RARE) | Ultragenyx Pharmaceutical Inc. | RARE |
 | 15 | 91 | $10.06 | [Chart](https://www.tradingview.com/chart/?symbol=MTAL) | MAC Copper Limited | MTAL |
-| 12 | 90 | $56.66 | [Chart](https://www.tradingview.com/chart/?symbol=BOIL) | ProShares Ultra Bloomberg Natural Gas | BOIL |
-| 16 | 88 | $16.40 | [Chart](https://www.tradingview.com/chart/?symbol=CHCT) | Community Healthcare Trust Incorporated Common Stock, $0.01 par value per share | CHCT |
+| 12 | 89 | $34.07 | [Chart](https://www.tradingview.com/chart/?symbol=TECS) | Direxion Daily Technology Bear 3x Shares | TECS |
+| 15 | 89 | $16.40 | [Chart](https://www.tradingview.com/chart/?symbol=CHCT) | Community Healthcare Trust Incorporated Common Stock, $0.01 par value per share | CHCT |
+| 18 | 89 | $11.19 | [Chart](https://www.tradingview.com/chart/?symbol=PBR.A) | Petroleo Brasileiro S.A.-Petrobras | PBR.A |
 | 21 | 88 | $52.45 | [Chart](https://www.tradingview.com/chart/?symbol=ERX) | Direxion Daily Energy Bull 2X Shares | ERX |
-| 29 | 86 | $25.36 | [Chart](https://www.tradingview.com/chart/?symbol=RCI) | Rogers Communications, Inc. | RCI |
+| 17 | 87 | $36.98 | [Chart](https://www.tradingview.com/chart/?symbol=OVV) | Ovintiv Inc. | OVV |
+| 27 | 87 | $20.40 | [Chart](https://www.tradingview.com/chart/?symbol=BITI) | ProShares Short Bitcoin ETF | BITI |
+| 28 | 87 | $25.36 | [Chart](https://www.tradingview.com/chart/?symbol=RCI) | Rogers Communications, Inc. | RCI |
 | 21 | 85 | $11.22 | [Chart](https://www.tradingview.com/chart/?symbol=NEWT) | NewtekOne, Inc. Common Stock | NEWT |
-| 26 | 85 | $20.50 | [Chart](https://www.tradingview.com/chart/?symbol=BITI) | ProShares Short Bitcoin ETF | BITI |
+| 30 | 85 | $35.75 | [Chart](https://www.tradingview.com/chart/?symbol=SU) | Suncor Energy, Inc. | SU |
 | 23 | 84 | $71.00 | [Chart](https://www.tradingview.com/chart/?symbol=NUVL) | Nuvalent, Inc. Class A Common Stock | NUVL |
 | 20 | 83 | $37.66 | [Chart](https://www.tradingview.com/chart/?symbol=MLTX) | MoonLake Immunotherapeutics Class A Ordinary Shares | MLTX |
 | 24 | 82 | $10.10 | [Chart](https://www.tradingview.com/chart/?symbol=CION) | CION Investment Corporation | CION |
+| 27 | 81 | $76.39 | [Chart](https://www.tradingview.com/chart/?symbol=IFF) | International Flavors & Fragrances Inc. | IFF |
+| 28 | 81 | $140.31 | [Chart](https://www.tradingview.com/chart/?symbol=FANG) | Diamondback Energy, Inc. | FANG |
+| 31 | 81 | $58.73 | [Chart](https://www.tradingview.com/chart/?symbol=BMRN) | BioMarin Pharmaceuticals Inc | BMRN |
 | 22 | 80 | $35.08 | [Chart](https://www.tradingview.com/chart/?symbol=SQM) | Sociedad Quimica y Minera de Chile SA | SQM |
-| 30 | 80 | $34.96 | [Chart](https://www.tradingview.com/chart/?symbol=CPB) | The Campbell's Company Common Stock | CPB |
-| 30 | 80 | $58.27 | [Chart](https://www.tradingview.com/chart/?symbol=BMRN) | BioMarin Pharmaceuticals Inc | BMRN |
-| 26 | 79 | $31.21 | [Chart](https://www.tradingview.com/chart/?symbol=CRNX) | Crinetics Pharmaceuticals, Inc. | CRNX |
+| 25 | 80 | $31.21 | [Chart](https://www.tradingview.com/chart/?symbol=CRNX) | Crinetics Pharmaceuticals, Inc. | CRNX |
+| 26 | 80 | $52.00 | [Chart](https://www.tradingview.com/chart/?symbol=LW) | Lamb Weston Holdings, Inc. | LW |
+| 32 | 79 | $35.15 | [Chart](https://www.tradingview.com/chart/?symbol=CPB) | The Campbell's Company Common Stock | CPB |
+| 27 | 78 | $26.38 | [Chart](https://www.tradingview.com/chart/?symbol=WY) | Weyerhaeuser Company | WY |
 | 27 | 78 | $14.79 | [Chart](https://www.tradingview.com/chart/?symbol=HR) | Healthcare Realty Trust Incorporated | HR |
 | 29 | 78 | $14.14 | [Chart](https://www.tradingview.com/chart/?symbol=OCSL) | Oaktree Specialty Lending Corporation | OCSL |
+| 30 | 78 | $13.70 | [Chart](https://www.tradingview.com/chart/?symbol=BSM) | Black Stone Minerals, L.P. | BSM |
 | 27 | 77 | $27.42 | [Chart](https://www.tradingview.com/chart/?symbol=BNO) | United States Brent Oil Fund, LP | BNO |
+| 28 | 77 | $110.73 | [Chart](https://www.tradingview.com/chart/?symbol=LEN) | Lennar Corporation Class A | LEN |
+| 37 | 77 | $89.64 | [Chart](https://www.tradingview.com/chart/?symbol=SCCO) | Southern Copper Corporation | SCCO |
+| 27 | 76 | $115.25 | [Chart](https://www.tradingview.com/chart/?symbol=EOG) | EOG Resources, Inc. | EOG |
 | 30 | 76 | $10.50 | [Chart](https://www.tradingview.com/chart/?symbol=SCS) | Steelcase, Inc. | SCS |
-| 32 | 75 | $13.75 | [Chart](https://www.tradingview.com/chart/?symbol=BSM) | Black Stone Minerals, L.P. | BSM |
+| 33 | 75 | $134.18 | [Chart](https://www.tradingview.com/chart/?symbol=HES) | Hess Corporation | HES |
 | 35 | 73 | $67.70 | [Chart](https://www.tradingview.com/chart/?symbol=MTH) | Meritage Homes Corporation | MTH |
 | 30 | 72 | $10.75 | [Chart](https://www.tradingview.com/chart/?symbol=AVO) | Mission Produce, Inc. Common Stock | AVO |
-| 39 | 72 | $35.44 | [Chart](https://www.tradingview.com/chart/?symbol=NSA) | National Storage Affiliates Trust | NSA |
-| 32 | 71 | $18.16 | [Chart](https://www.tradingview.com/chart/?symbol=ZTO) | ZTO Express (Cayman) Inc. American Depositary Shares, each representing one Class A ordinary share | ZTO |
-| 36 | 71 | $135.07 | [Chart](https://www.tradingview.com/chart/?symbol=HES) | Hess Corporation | HES |
+| 32 | 71 | $141.32 | [Chart](https://www.tradingview.com/chart/?symbol=CVX) | Chevron Corporation | CVX |
 | 39 | 71 | $10.68 | [Chart](https://www.tradingview.com/chart/?symbol=NMFC) | NEW MOUNTAIN FINANCE CORPORATION | NMFC |
-| 32 | 68 | $142.26 | [Chart](https://www.tradingview.com/chart/?symbol=CVX) | Chevron Corporation | CVX |
-| 38 | 68 | $19.44 | [Chart](https://www.tradingview.com/chart/?symbol=SPTN) | SpartanNash Company | SPTN |
 | 37 | 67 | $10.51 | [Chart](https://www.tradingview.com/chart/?symbol=NMZ) | Nuveen Municipal High Income Opportunity Fund | NMZ |
+| 39 | 67 | $19.44 | [Chart](https://www.tradingview.com/chart/?symbol=SPTN) | SpartanNash Company | SPTN |
+| 39 | 66 | $12.74 | [Chart](https://www.tradingview.com/chart/?symbol=PDBC) | Invesco Actively Managed Exch-Traded Commodity Fd Tr Invesco Optimum Yield Diversified Commodity Strategy No K-1 ETF | PDBC |
 | 37 | 65 | $12.79 | [Chart](https://www.tradingview.com/chart/?symbol=PCN) | PIMCO Corporate & Income Strategy Fund | PCN |
+| 39 | 65 | $18.77 | [Chart](https://www.tradingview.com/chart/?symbol=ZTO) | ZTO Express (Cayman) Inc. American Depositary Shares, each representing one Class A ordinary share | ZTO |
 | 39 | 63 | $110.39 | [Chart](https://www.tradingview.com/chart/?symbol=MHO) | M/I Homes, Inc. | MHO |
 
 ## **Methodology**
